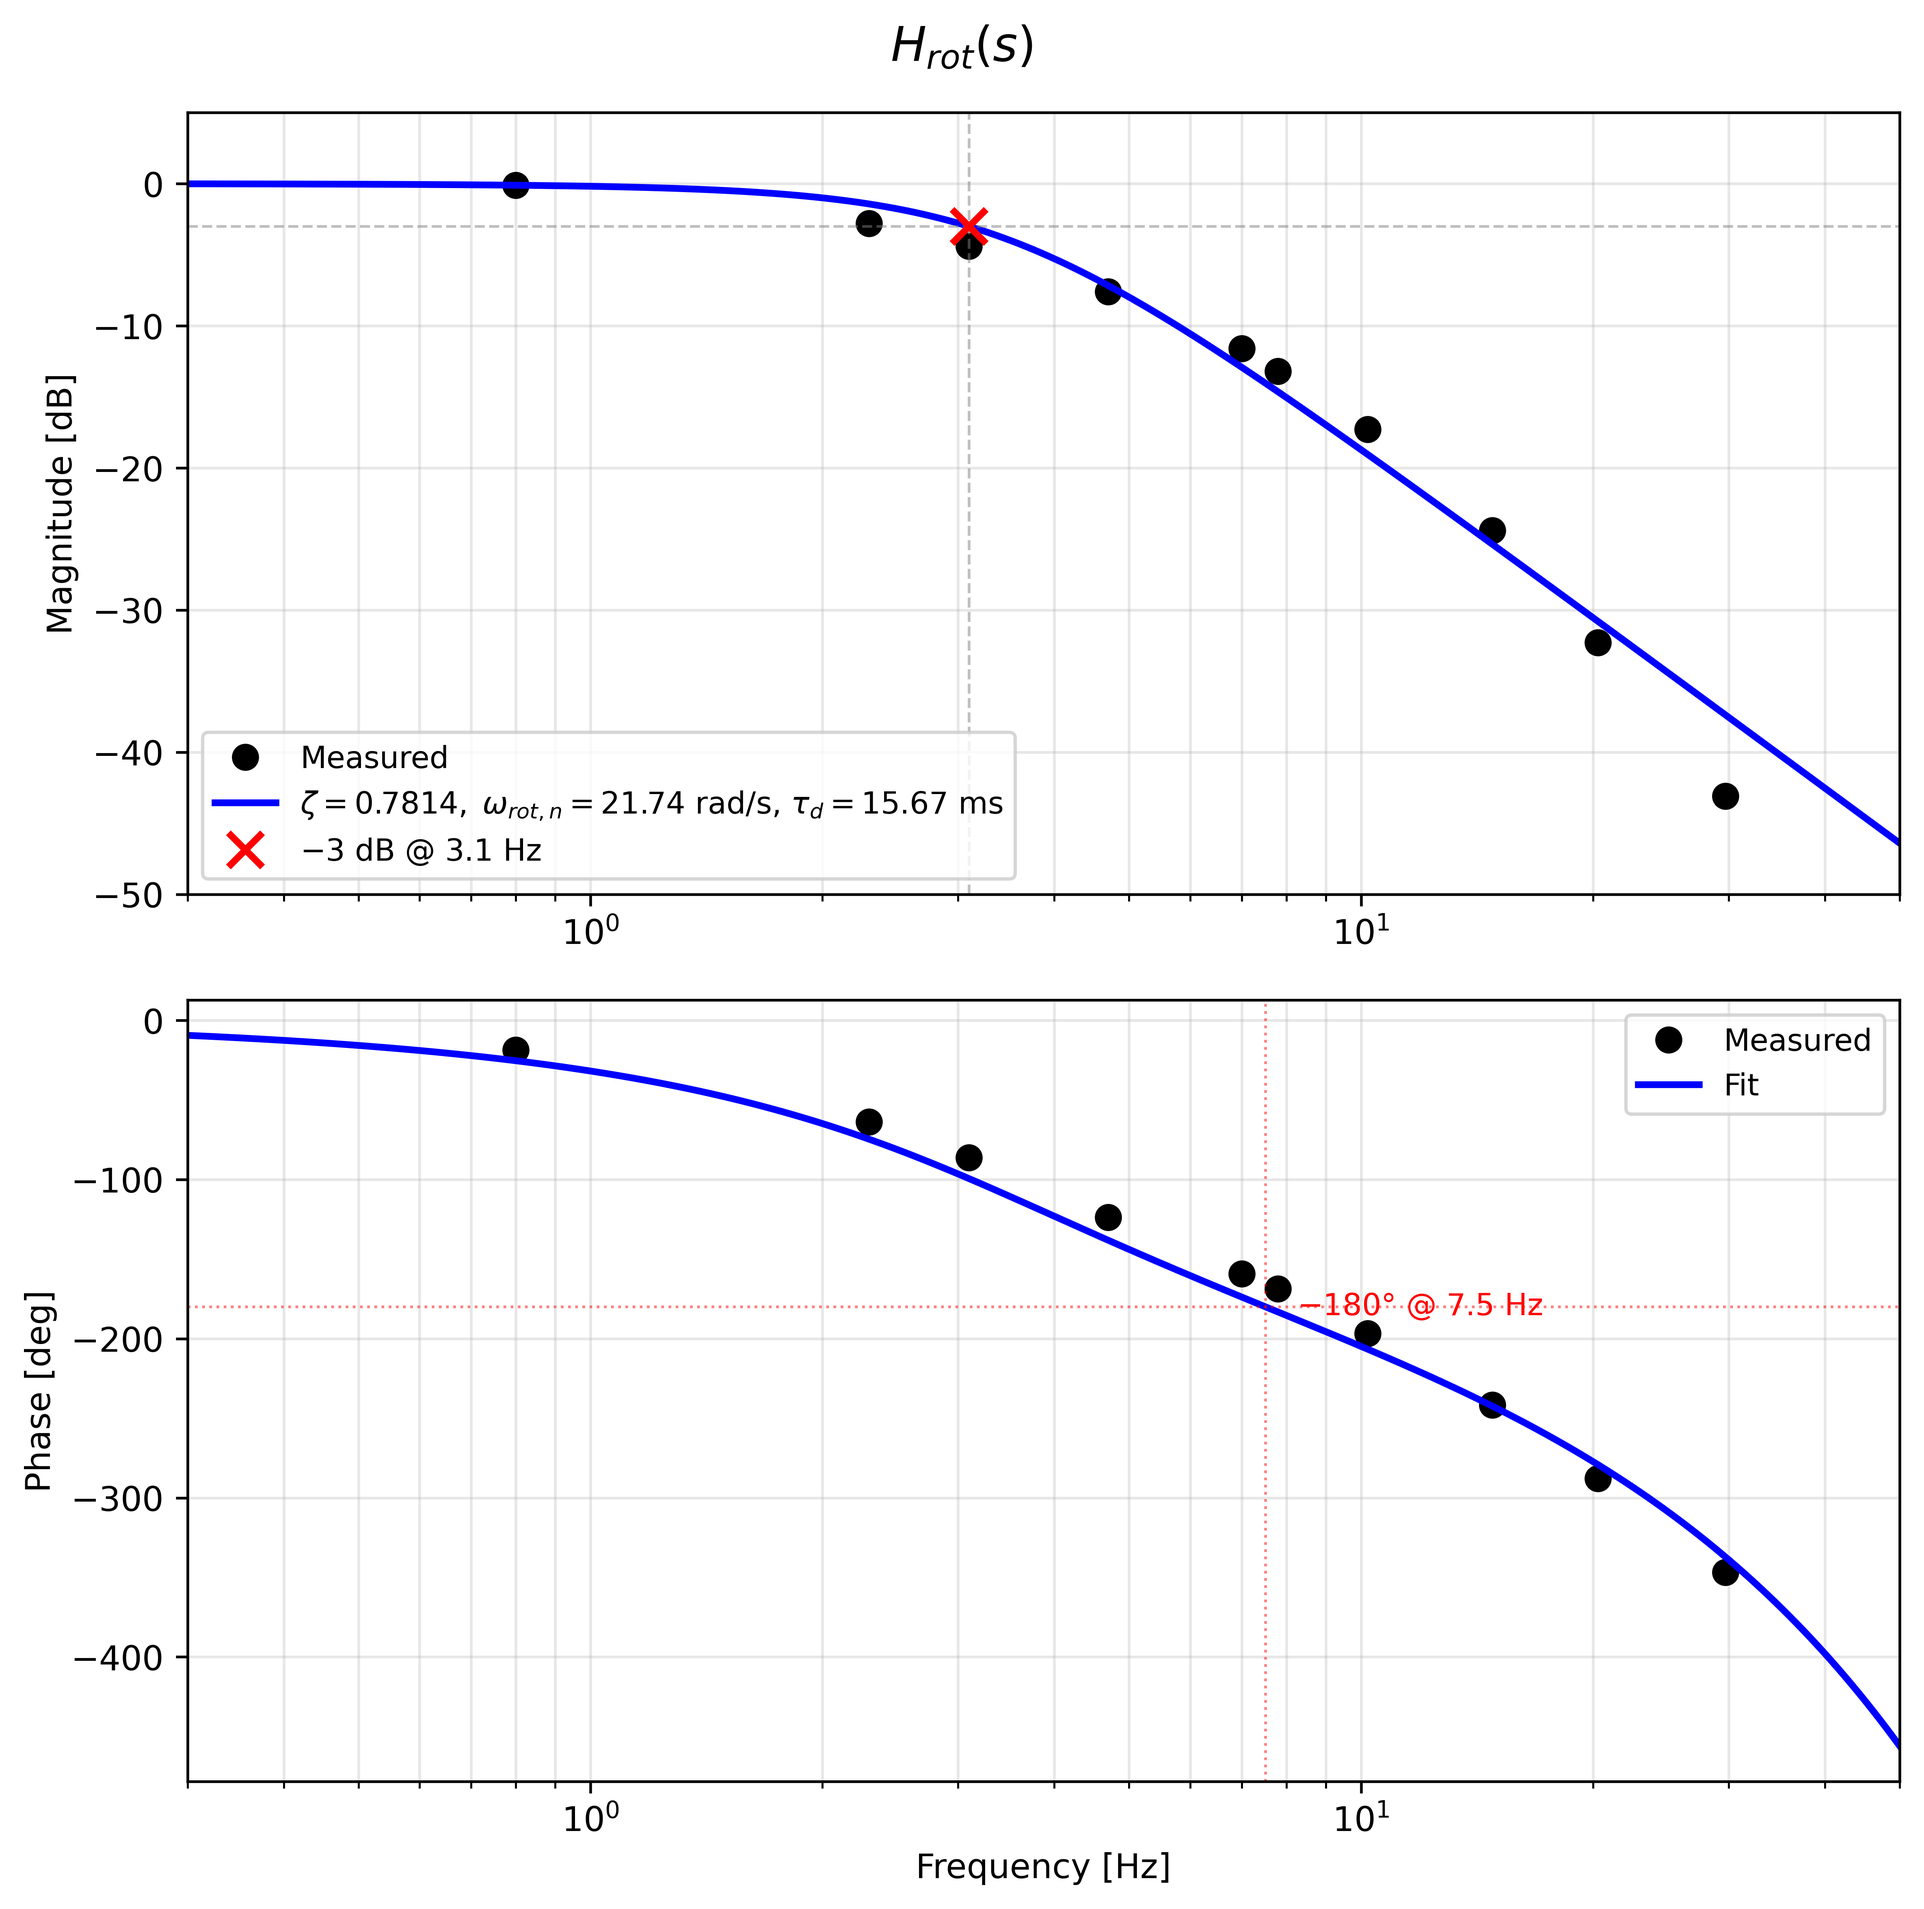
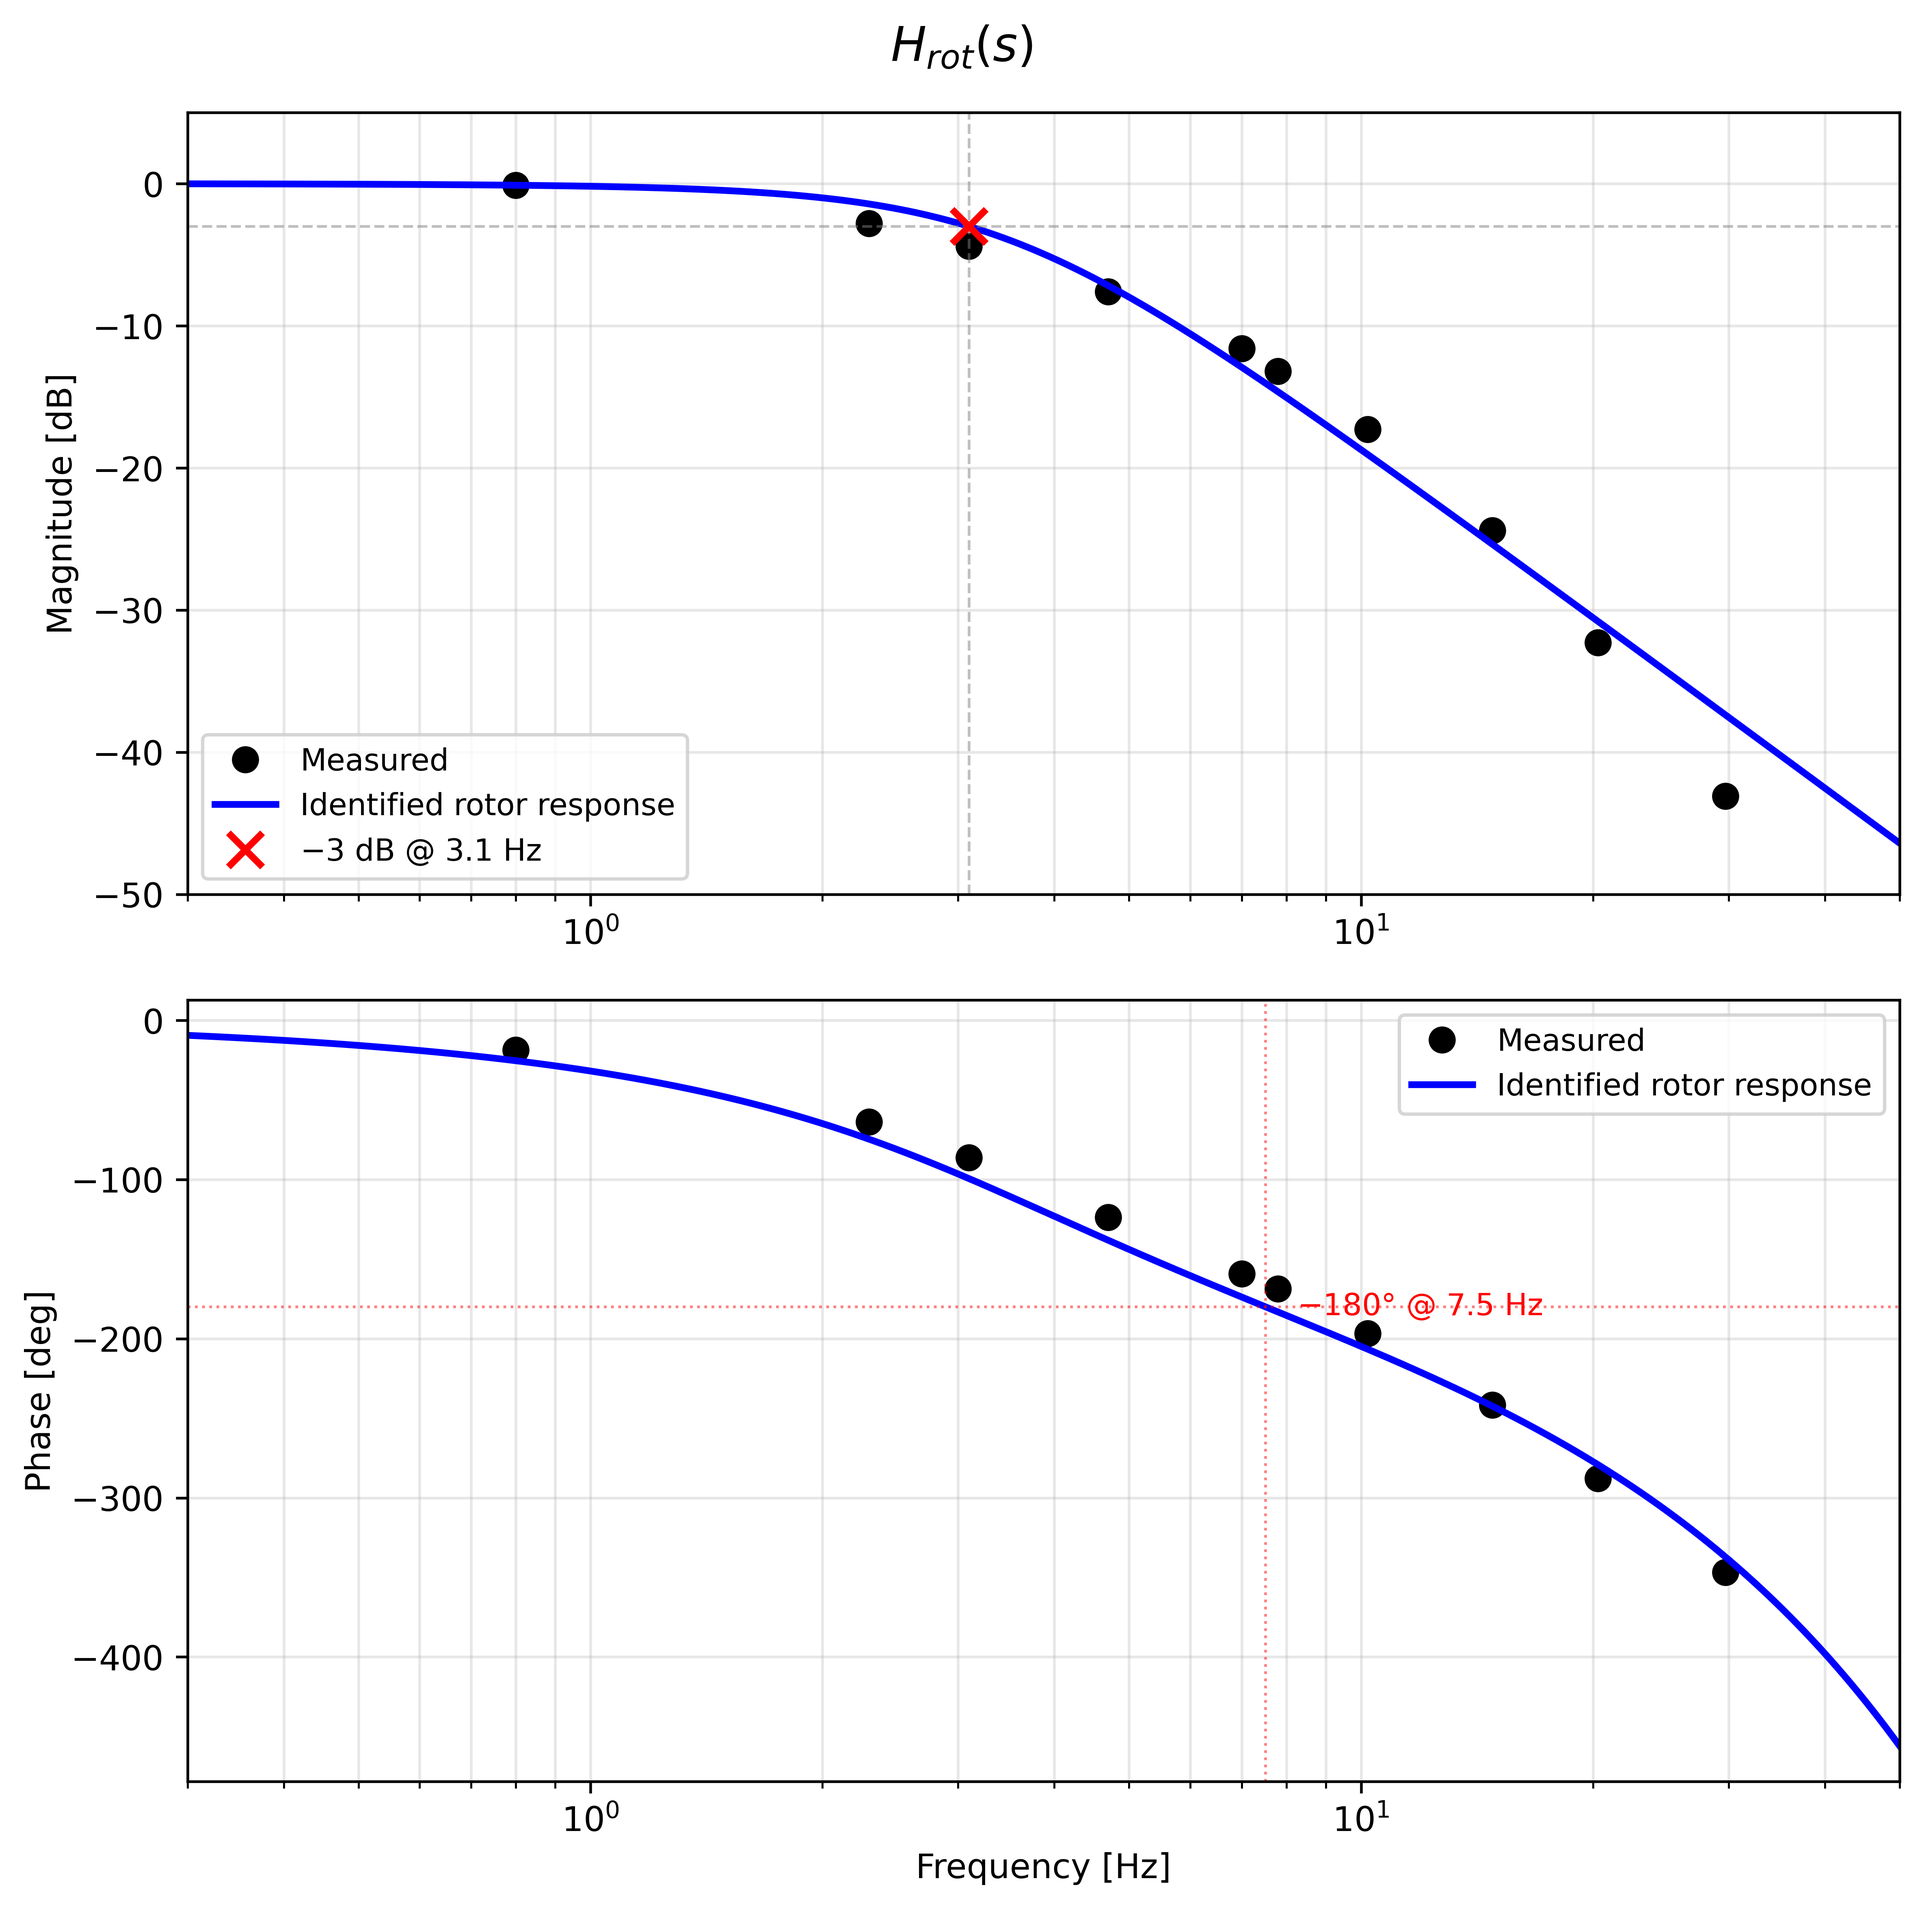
Rename fit legend to 'Identified rotor response'
https://claude.ai/code/session_01LyivL6ySPkazYroLddSuMA

Changed region(s): [[0.7184, 0.5281, 0.9683, 0.5902], [0.1249, 0.3728, 0.4061, 0.4349], [0.4998, 0.4038, 0.531, 0.466]]

diff --git a/data_set/trained_models/motor_tf_bode_fit.py b/data_set/trained_models/motor_tf_bode_fit.py
@@ -86,7 +86,7 @@ fig.suptitle(r'$H_{rot}(s)$', fontsize=14, fontweight='bold')
 ax = axes[0]
 ax.semilogx(f_data, mag_db_data, 'ko', markersize=7, label='Measured')
 ax.semilogx(f_model, mag_fit, 'b-', linewidth=2.0,
-            label=rf'$\zeta={zeta:.4f},\;\omega_{{rot,n}}={wn:.2f}$ rad/s, $\tau_d={tau_d*1000:.2f}$ ms')
+            label='Identified rotor response')
 ax.axhline(y=-3.0, color='gray', ls='--', alpha=0.5, lw=0.8)
 ax.axvline(x=F_3DB, color='gray', ls='--', alpha=0.5, lw=0.8)
 ax.plot(F_3DB, -3.0, 'rx', ms=10, mew=2, label=f'$-3$ dB @ {F_3DB} Hz')
@@ -99,7 +99,7 @@ ax.set_ylim(-50, 5)
 # Phase
 ax = axes[1]
 ax.semilogx(f_data, phase_deg_data, 'ko', markersize=7, label='Measured')
-ax.semilogx(f_model, phase_fit, 'b-', linewidth=2.0, label='Fit')
+ax.semilogx(f_model, phase_fit, 'b-', linewidth=2.0, label='Identified rotor response')
 ax.axhline(y=-180, color='r', ls=':', alpha=0.5, lw=0.8)
 if f_180:
     ax.axvline(x=f_180, color='r', ls=':', alpha=0.5, lw=0.8)
